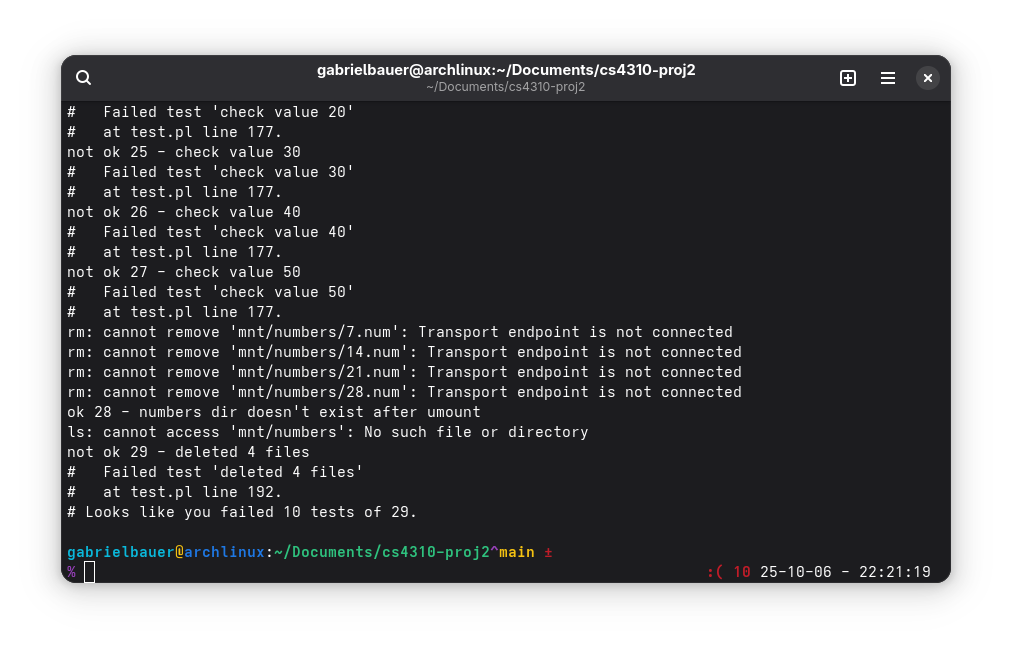
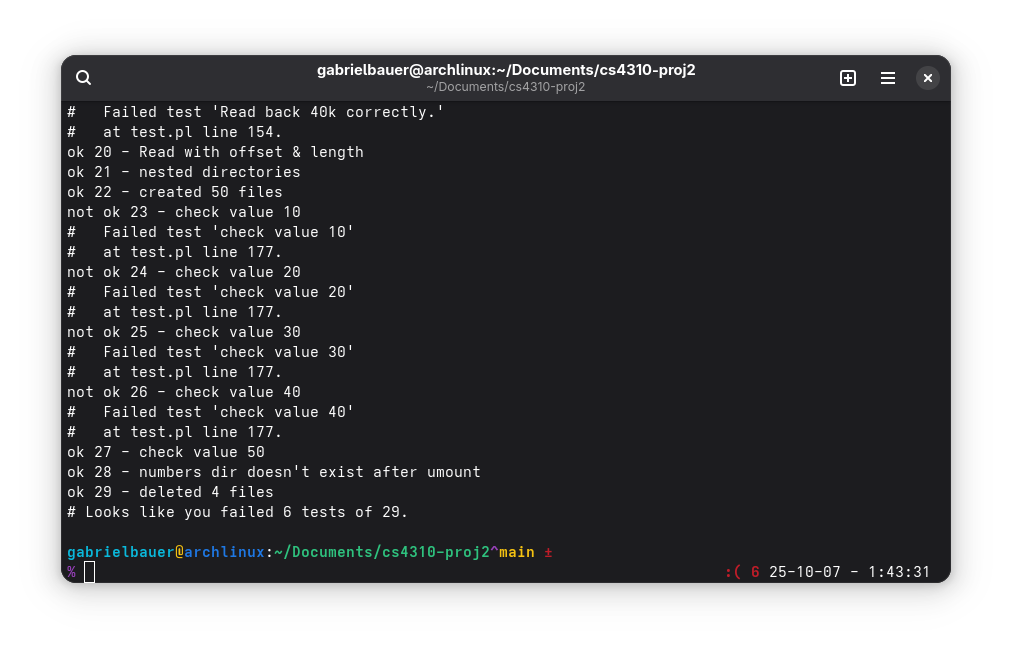
..

diff --git a/inode.c b/inode.c
@@ -27,143 +27,91 @@ inode* get_inode(int inum) {
 int
 alloc_inode() {
 	void* ibm = get_inode_bitmap();
+	inode *node;
 	for (int ii = 0; ii < 4096*64; ++ii) {
 		if (!bitmap_get(ibm, ii)) {
 			bitmap_put(ibm, ii, 1);
+			node = get_inode(ii);
+			node->ptrs[0]=0;
+			node->ptrs[1]=1;
+			node->size=0;
+			node->iptr=0;
 			printf("+ alloc_inode() -> %d\n", ii);
 			return ii;
-        	}
-    	}
+		}
+	}
 
 	return -1;
 }
 
+void
+free_inode(int inum) {
+	printf("+ free_inode(%d)\n", inum);
+	void* ibm = get_inode_bitmap();
+	bitmap_put(ibm, inum, 0);
+}
+
 int grow_inode(inode* node, int size)
-/* This function was written by DeepSeek. Un-edited. */
 {
-    if (size <= node->size) {
-        return 0; // Nothing to do
-    }
-    
-    // Calculate how many pages we need now vs before
-    int current_pages = bytes_to_pages(node->size);
-    int needed_pages = bytes_to_pages(size);
-    
-    if (needed_pages <= current_pages) {
-        node->size = size;
-        return 0; // Already have enough pages
-    }
-    
-    // Allocate new pages if needed
-    for (int i = current_pages; i < needed_pages; i++) {
-        int pnum = alloc_page();
-        if (pnum < 0) {
-            return -ENOSPC; // No free pages available
-        }
-        
-        if (i < 2) {
-            // Use direct pointers
-            node->ptrs[i] = pnum;
-        } else {
-            // Use indirect pointer
-            if (node->iptr == 0) {
-                // Allocate indirect page if not already allocated
-                node->iptr = alloc_page();
-                if (node->iptr < 0) {
-                    return -ENOSPC;
-                }
-                
-                // Initialize indirect page to zeros
-                int* indirect_page = pages_get_page(node->iptr);
-                memset(indirect_page, 0, 4096);
-            }
-            
-            // Get the indirect page and store the page number
-            int* indirect_page = pages_get_page(node->iptr);
-            int indirect_index = i - 2;
-            
-            if (indirect_index >= 1024) {
-                free_page(pnum); // Free the page we just allocated
-                return -EFBIG; // File too large (max 2 + 1024 pages)
-            }
-            
-            indirect_page[indirect_index] = pnum;
-        }
-    }
-    
-    // Update the file size
-    node->size = size;
-    return 0;
+	int current_pages = bytes_to_pages(node->size);
+	int needed_pages = bytes_to_pages(size);
+	inode *temp = node;
+	
+	if (needed_pages <= current_pages) {
+		node->size = size;
+		return 0;
+	}
+	
+	for (int i=0; i<current_pages; i++)
+	{
+		if (i%2==0&&i>0) temp = get_inode(temp->iptr);
+	}
+	
+	for (int i=current_pages ; i < needed_pages; i++)
+	{
+		if (i%2==0&&i>0)
+		{
+			temp->iptr = alloc_inode();
+			temp = get_inode(temp->iptr);
+		}
+		temp->ptrs[i%2] = alloc_page();
+	}
+	
+	node->size = size;
+	return 0;
 }
 
 int shrink_inode(inode* node, int size)
-/* This function was written by DeepSeek. Un-edited. */
 {
-    if (size >= node->size) {
-        return 0; // Nothing to do
-    }
-    
-    // Calculate how many pages we need now vs before
-    int current_pages = bytes_to_pages(node->size);
-    int needed_pages = bytes_to_pages(size);
-    
-    if (needed_pages >= current_pages) {
-        node->size = size;
-        return 0; // Still need the same number of pages
-    }
-    
-    // Free excess pages
-    for (int i = current_pages - 1; i >= needed_pages; i--) {
-        int pnum = -1;
-        
-        if (i < 2) {
-            // Direct pointer
-            pnum = node->ptrs[i];
-            node->ptrs[i] = 0;
-        } else {
-            // Indirect pointer
-            if (node->iptr == 0) {
-                continue; // No indirect page allocated
-            }
-            
-            int* indirect_page = pages_get_page(node->iptr);
-            int indirect_index = i - 2;
-            
-            if (indirect_index >= 1024) {
-                continue; // Invalid index
-            }
-            
-            pnum = indirect_page[indirect_index];
-            indirect_page[indirect_index] = 0;
-        }
-        
-        if (pnum > 0) {
-            free_page(pnum);
-        }
-    }
-    
-    // Free the indirect page if it's now empty
-    if (node->iptr != 0 && needed_pages <= 2) {
-        int* indirect_page = pages_get_page(node->iptr);
-        int indirect_empty = 1;
-        
-        // Check if all entries in the indirect page are zero
-        for (int i = 0; i < 1024; i++) {
-            if (indirect_page[i] != 0) {
-                indirect_empty = 0;
-                break;
-            }
-        }
-        
-        if (indirect_empty) {
-            free_page(node->iptr);
-            node->iptr = 0;
-        }
-    }
-    
-    // Update the file size
-    node->size = size;
-    return 0;
+	int current_pages = bytes_to_pages(node->size);
+	int needed_pages = bytes_to_pages(size);
+	inode *temp = node;
+	
+	if (needed_pages == current_pages) {
+		node->size = size;
+		return 0;
+	}
+	
+	for (int i=0; i<needed_pages; i++)
+	{
+		if (i%2==0&&i>0) temp = get_inode(temp->iptr);
+	}
+	
+	inode *last = node;
+	
+	for (int j=0, i=needed_pages ; i < current_pages; i++, j++)
+	{
+		if (j%2==0&&j>0)
+		{
+			free_inode(temp->iptr);
+			temp = get_inode(temp->iptr);
+			j=0;
+		}
+		free_page(temp->ptrs[j]);
+	}
+	
+	node->size = size;
+	return 0;
 }
 
 int inode_get_pnum(inode* node, int fpn)

diff --git a/nufs.c b/nufs.c
@@ -303,7 +303,8 @@ nufs_open(const char *path, struct fuse_file_info *fi)
 // Actually read data
 int
 nufs_read(const char *path, char *buf, size_t size, off_t offset, struct fuse_file_info *fi)
-/* This function was written by DeepSeek. */
+/* This function was originally written by DeepSeek.
+ * Finished by myself. */
 {
 	// Find the inode for the given path
 	int inum = tree_lookup(path);
@@ -334,6 +335,7 @@ nufs_read(const char *path, char *buf, size_t size, off_t offset, struct fuse_fi
 	int remaining = size;
 	off_t current_offset = offset;
 	
+	int i=0;
 	while (remaining > 0) {
 		// Calculate which page we're reading from
 		int page_index = current_offset / 4096;
@@ -342,25 +344,18 @@ nufs_read(const char *path, char *buf, size_t size, off_t offset, struct fuse_fi
 		// Get the physical page number for this logical page
 		int pnum = -1;
 		
-		if (page_index < 2) {
-			// Direct pointer
-			pnum = node->ptrs[page_index];
-		} else {
-			// Indirect pointer - need to read from the indirect page
-			if (node->iptr == 0) {
-				break; // No indirect page allocated
+		for (i=0; i < page_index; i++)
+		{
+			if (i % 2 == 0 && i>0) {
+				if (node->iptr == 0) {
+					break; // No indirect pointer allocated
+				}
+				node = get_inode(node->iptr);
+				i=0;
 			}
-			
-			// Read the page number from the indirect page
-			int* indirect_page = pages_get_page(node->iptr);
-			int indirect_index = page_index - 2;
-			
-			if (indirect_index >= 1024) {
-				break; // Beyond maximum supported pages
-			}
-			
-			pnum = indirect_page[indirect_index];
 		}
+		// Direct pointer
+		pnum = node->ptrs[i%2];
 		
 		if (pnum <= 0) {
 			break; // No page allocated here
@@ -382,6 +377,7 @@ nufs_read(const char *path, char *buf, size_t size, off_t offset, struct fuse_fi
 		bytes_read += bytes_to_read;
 		remaining -= bytes_to_read;
 		current_offset += bytes_to_read;
+		i++;
 	}
 	
 	printf("read(%s, %ld bytes, @+%ld) -> %d\n", path, size, offset, bytes_read);
@@ -391,7 +387,8 @@ nufs_read(const char *path, char *buf, size_t size, off_t offset, struct fuse_fi
 // Actually write data
 int
 nufs_write(const char *path, const char *buf, size_t size, off_t offset, struct fuse_file_info *fi)
-/* This function was written by DeepSeek. */
+/* This function was originally written by DeepSeek.
+ * Finished by myself. */
 {
 	// Find the inode for the given path
 	int inum = tree_lookup(path);
@@ -404,19 +401,18 @@ nufs_write(const char *path, const char *buf, size_t size, off_t offset, struct 
 		return -ENOENT;
 	}
 	
+	printf("node size = %d\n", node->size);
 	// If writing beyond current size, we need to grow the file
 	if (offset + size > node->size) {
 		int new_size = offset + size;
-		int rv = grow_inode(node, new_size);
-		if (rv < 0) {
-			return -ENOSPC; // No space left
-		}
+		grow_inode(node, new_size);
 	}
 	
 	int bytes_written = 0;
 	int remaining = size;
 	off_t current_offset = offset;
 	
+	int i=0;
 	while (remaining > 0) {
 		// Calculate which page we're writing to
 		int page_index = current_offset / 4096;
@@ -425,25 +421,20 @@ nufs_write(const char *path, const char *buf, size_t size, off_t offset, struct 
 		// Get the physical page number for this logical page
 		int pnum = -1;
 		
-		if (page_index < 2) {
-			// Direct pointer
-			pnum = node->ptrs[page_index];
-		} else {
-			// Indirect pointer - need to read from the indirect page
-			if (node->iptr == 0) {
-				return -ENOSPC; // No indirect page allocated (should have been allocated by grow_inode)
+		for (i=0; i < page_index; i++)
+		{
+			if (i % 2 == 0 && i>0) {
+				if (node->iptr == 0) {
+					break; // No indirect pointer allocated
+				}
+				node = get_inode(node->iptr);
+				i=0;
 			}
-			
-			// Read the page number from the indirect page
-			int* indirect_page = pages_get_page(node->iptr);
-			int indirect_index = page_index - 2;
-			
-			if (indirect_index >= 1024) {
-				return -EFBIG; // File too large
-			}
-			
-			pnum = indirect_page[indirect_index];
 		}
+		// Direct pointer
+		pnum = node->ptrs[i%2];
+		
+		printf("Writing to page number %d\n", pnum);
 		
 		if (pnum <= 0) {
 			return -ENOSPC; // Page not allocated (should have been allocated by grow_inode)

diff --git a/directory.c b/directory.c
@@ -150,7 +150,7 @@ void print_directory(inode* dd)
 			printf("%s\n", ptr->name);
 			count = 0;
 			dd = get_inode(dd->iptr);
-			ptr = (dirent*)pages_get_page(dd->ptrs[0])
+			ptr = (dirent*)pages_get_page(dd->ptrs[0]);
 		}
 		else {
 			printf("%s\n", ptr->name);

diff --git a/libmkfs.c b/libmkfs.c
@@ -13,7 +13,7 @@ mkfs() {
 	dirent root;
 	strcpy(root.name, "/");
 	root.inum = 0;
-	root.next==false;
+	root.next=false;
 	inode root_node;
 	root_node.ptrs[0]=alloc_page();
 	root_node.size=sizeof(dirent);
